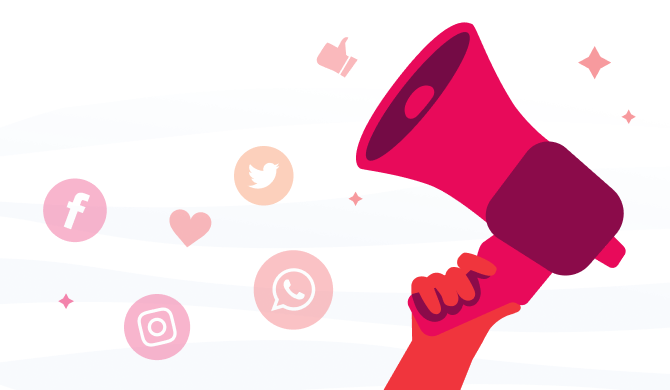
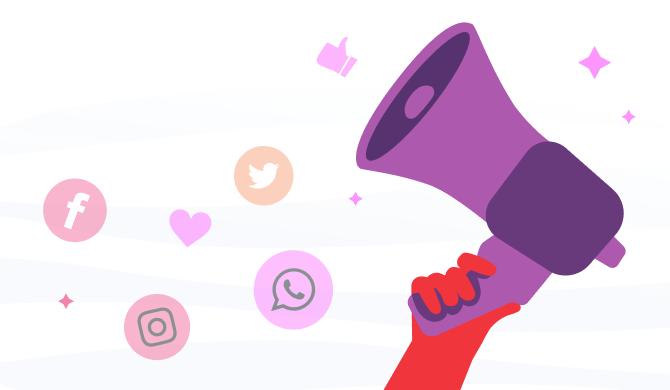
event page 80% register button tweaks needed, html text based colourings needed

diff --git a/lib/UI/Screens/HomePage/Widgets/aboutExcel.dart b/lib/UI/Screens/HomePage/Widgets/aboutExcel.dart
@@ -1,5 +1,6 @@
 import 'package:excelapp/UI/Screens/HomePage/Widgets/Drawer/DevCredits/devCredits.dart';
 import 'package:excelapp/UI/Screens/HomePage/Widgets/socialIcons.dart';
+import 'package:excelapp/UI/Themes/gradient.dart';
 import 'package:excelapp/UI/constants.dart';
 import 'package:flutter/material.dart';
 
@@ -33,6 +34,10 @@ class AboutExcelPopUp extends StatelessWidget {
   @override
   Widget build(BuildContext context) {
     return Container(
+      decoration: BoxDecoration(
+        borderRadius: BorderRadius.only(topLeft: Radius.circular(32), topRight: Radius.circular(32)),
+        gradient: drawerGradient()
+      ),
       child: Column(
         children: [
           SizedBox(height: 8),
@@ -53,7 +58,7 @@ class AboutExcelPopUp extends StatelessWidget {
                 text: TextSpan(
                   text: 'Inspire. Innovate. Engineer ',
                   style: TextStyle(
-                    color: Color(0xDD000000),
+                    color: Color(0xFFD3E1E4),
                     fontWeight: FontWeight.w800,
                     fontSize: 16,
                     fontFamily: "mulish",
@@ -61,9 +66,9 @@ class AboutExcelPopUp extends StatelessWidget {
                   children: const <TextSpan>[
                     TextSpan(
                       text:
-                          "\n\nExcel, the nation’s second and South India’s first ever fest of its kind, was started in 2001 by the students of Govt. Model Engineering College. Over the years, Excel has grown exponentially, consistently playing host to some of the most talented students, the most illustrious speakers and the most reputed companies. \n\n Now gearing towards the landmark 23rd edition, Excel continues to march forward. Join us this December to experience the magic of Excel!.",
+                          "\n\nExcel, the nation’s second and South India’s first ever fest of its kind, was started in 2001 by the students of Govt. Model Engineering College. Over the years, Excel has grown exponentially, consistently playing host to some of the most talented students, the most illustrious speakers and the most reputed companies. \n\nNow gearing towards the landmark 23rd edition, Excel continues to march forward. Join us this December to experience the magic of Excel!.",
                       style: TextStyle(
-                        color: Color.fromARGB(255, 61, 71, 71),
+                        color: Color(0xFFE4EDEF),
                         fontWeight: FontWeight.w400,
                         fontSize: 14,
                         fontFamily: pfontFamily,
@@ -88,7 +93,7 @@ class AboutExcelPopUp extends StatelessWidget {
                     child: Container(
                       decoration: BoxDecoration(
                         borderRadius: BorderRadius.circular(40),
-                        color: red100,
+                        color: primaryPink,
                       ),
                       height: 50,
                       alignment: Alignment.center,
@@ -98,7 +103,7 @@ class AboutExcelPopUp extends StatelessWidget {
                           Text(
                             'View Website',
                             style: TextStyle(
-                                color: Colors.white,
+                                color: backgroundBlue,
                                 fontFamily: "mulish",
                                 fontWeight: FontWeight.w700,
                                 fontSize: 14),
@@ -107,7 +112,7 @@ class AboutExcelPopUp extends StatelessWidget {
                             width: 10,
                           ),
                           Icon(Icons.arrow_forward,
-                              size: 19, color: Colors.white)
+                              size: 19, color: backgroundBlue)
                         ],
                       ),
                     ),
@@ -130,7 +135,7 @@ class AboutExcelPopUp extends StatelessWidget {
                     child: Container(
                       decoration: BoxDecoration(
                         borderRadius: BorderRadius.circular(40),
-                        color: Color.fromARGB(255, 228, 237, 239),
+                        color: Color(0xFf2C1B77),
                       ),
                       height: 50,
                       alignment: Alignment.center,
@@ -140,7 +145,7 @@ class AboutExcelPopUp extends StatelessWidget {
                           Text(
                             'Developer Credits',
                             style: TextStyle(
-                                color: Color.fromARGB(255, 61, 71, 71),
+                                color: Color(0xFFE4EDEF),
                                 fontFamily: "mulish",
                                 fontWeight: FontWeight.w700,
                                 fontSize: 14),
@@ -151,7 +156,7 @@ class AboutExcelPopUp extends StatelessWidget {
                           Icon(
                             Icons.arrow_forward,
                             size: 19,
-                            color: Color.fromARGB(255, 61, 71, 71),
+                            color: Color(0xFFE4EDEF),
                           )
                         ],
                       ),

diff --git a/lib/UI/Screens/EventPage/Widgets/eventDetails.dart b/lib/UI/Screens/EventPage/Widgets/eventDetails.dart
@@ -2,6 +2,7 @@ import 'dart:convert';
 
 import 'package:excelapp/Models/event_details.dart';
 import 'package:excelapp/UI/Themes/colors.dart';
+import 'package:excelapp/UI/Themes/gradient.dart';
 
 import 'package:flutter/material.dart';
 import 'package:flutter_html/flutter_html.dart';
@@ -54,7 +55,6 @@ late  TabController _controller;
     double height = lines < 25 ? 640 : lines * 30;
     height += lines < 30 ? (content.split("\n").length) : 0;
     return height;
-      return 580.0;
   }
 
   @override
@@ -68,7 +68,7 @@ late  TabController _controller;
       initialIndex: 0,
       length: 4,
       child: Container(
-        color: white200,
+        color: Color(0xFF000000),
         height: height,
         child: Column(
           mainAxisSize: MainAxisSize.min,
@@ -82,7 +82,7 @@ late  TabController _controller;
               indicatorColor: primaryColor,
               // labelColor: Color(0xFF3D4747),
               labelColor: primaryColor,
-              unselectedLabelColor: Color(0xFF3D4747),
+              unselectedLabelColor: Color(0xFFE4EDEF),
               labelStyle: TextStyle(
                   fontSize: 14,
                   fontFamily: pfontFamily,
@@ -104,7 +104,9 @@ late  TabController _controller;
             ),
             Expanded(
               child: Container(
-                color: white100,
+                decoration: BoxDecoration(
+                  gradient: primaryGradient()
+                ),
                 child: TabBarView(
                   controller: _controller,
                   physics: BouncingScrollPhysics(),
@@ -163,25 +165,25 @@ late  TabController _controller;
                   fontFamily: pfontFamily,
                   fontSize: 18,
                   height: 1.3,
-                  color: Color(0xff3D4747));
+                  color: Color(0xFFE4EDEF));
             case "p":
               return TextStyle(
                   fontFamily: pfontFamily,
                   fontSize: 14.7,
                   height: 1.5,
-                  color: Color(0xff3D4747));
+                  color: Color(0xFFE4EDEF));
             case "li":
               return TextStyle(
                   fontFamily: pfontFamily,
                   fontSize: 14.7,
                   height: 1.7,
-                  color: Color(0xff3D4747));
+                  color: Color(0xFFE4EDEF));
           }
         return TextStyle(
             fontFamily: pfontFamily,
             fontSize: 14.7,
             height: 1.5,
-            color: Color(0xff3D4747));
+            color: Color(0xFFE4EDEF));
       }
 
   Widget contactTab() {
@@ -224,7 +226,7 @@ late  TabController _controller;
                     fontFamily: pfontFamily,
                     fontSize: 16,
                     height: 1.3,
-                    color: black400,
+                    color: Color(0xFFE4EDEF),
                     fontWeight: FontWeight.w700,
                   )),
               // SizedBox(
@@ -263,7 +265,7 @@ late  TabController _controller;
                       await launchUrl(launchUri);
                                         },
                     icon: Image.asset("assets/icons/message.png", height: 24),
-                    color: Colors.blue,
+                    color: Colors.white,
                     iconSize: 28),
               ],
             ),

diff --git a/lib/UI/Screens/EventPage/Widgets/eventPageBody.dart b/lib/UI/Screens/EventPage/Widgets/eventPageBody.dart
@@ -7,6 +7,7 @@ import 'package:excelapp/UI/Themes/colors.dart';
 import 'package:flutter/material.dart';
 import 'package:excelapp/UI/constants.dart';
 import 'package:excelapp/UI/Components/LikeButton/likeButton.dart';
+import 'package:hive/hive.dart';
 
 class EventPageBody extends StatelessWidget {
   final EventDetails eventDetails;
@@ -52,6 +53,9 @@ class EventPageBody extends StatelessWidget {
           Align(
             alignment: Alignment.topCenter,
             child: Container(
+              decoration: BoxDecoration(
+                color: backgroundBlue
+              ),
               height: deviceHeight,
               child: Column(
                 children: <Widget>[
@@ -95,7 +99,7 @@ class EventPageBody extends StatelessWidget {
                                           fontFamily: pfontFamily,
                                           fontSize: 32.0,
                                           fontWeight: FontWeight.w900,
-                                          color: textColor,
+                                          color: Color(0xFFD3E1E4),
                                         ),
                                       ),
                                     ),
@@ -108,7 +112,7 @@ class EventPageBody extends StatelessWidget {
                                         decoration: BoxDecoration(
                                           borderRadius:
                                               BorderRadius.circular(21),
-                                          color: red100,
+                                          color: Color(0xFFAD59AE),
                                         ),
                                         child: Padding(
                                           padding: EdgeInsets.all(12.25),
@@ -170,7 +174,7 @@ class EventPageBody extends StatelessWidget {
             child: Container(
               padding: EdgeInsetsDirectional.only(bottom: 20),
               decoration: BoxDecoration(
-                color: Colors.white,
+                color: backgroundBlue,
                 borderRadius: BorderRadius.only(
                     topLeft: Radius.circular(40),
                     topRight: Radius.circular(40)),

diff --git a/lib/UI/Screens/EventPage/Widgets/eventDescription.dart b/lib/UI/Screens/EventPage/Widgets/eventDescription.dart
@@ -1,4 +1,4 @@
-import 'package:excelapp/UI/Themes/colors.dart';
+import 'package:excelapp/UI/Themes/gradient.dart';
 import 'package:flutter/material.dart';
 import 'package:excelapp/Models/event_details.dart';
 import 'package:excelapp/UI/constants.dart';
@@ -26,7 +26,9 @@ Widget getEventDetails(
   return Hero(
     tag: 'EventDescription',
     child: Container(
-      color: white200,
+      decoration: BoxDecoration(
+        gradient: primaryGradient()
+      ),
       child: Column(
         children: <Widget>[
           Row(
@@ -117,7 +119,7 @@ Widget detailBox(
     width: width,
 
     decoration: BoxDecoration(
-        color: white100, borderRadius: BorderRadius.circular(24)),
+        color: Color(0xFF000000), borderRadius: BorderRadius.circular(24)),
     child: Row(
       mainAxisAlignment: MainAxisAlignment.start,
       children: <Widget>[
@@ -126,7 +128,7 @@ Widget detailBox(
           child: FaIcon(
             icon,
             size: 20.0,
-            color: red100,
+            color: Color(0xFFAD59AE),
           ),
         ),
         Expanded(
@@ -141,7 +143,7 @@ Widget detailBox(
                 Text(
                   title,
                   style: TextStyle(
-                    color: Color(0xFF778585),
+                    color: Color(0xFFE7F1F3),
                     fontSize: 11,
                     fontFamily: pfontFamily,
                     fontWeight: FontWeight.w500,
@@ -151,7 +153,7 @@ Widget detailBox(
                 Text(
                   data,
                   style: TextStyle(
-                    color: Color(0xFF3D4747),
+                    color: Color(0xFFE4EDEF),
                     fontSize: 14,
                     fontFamily: pfontFamily,
                     fontWeight: FontWeight.bold,

diff --git a/lib/UI/Screens/HomePage/Widgets/LatestNews/LatestNews_card.dart b/lib/UI/Screens/HomePage/Widgets/LatestNews/LatestNews_card.dart
@@ -41,12 +41,15 @@ class _LastestNewsCardState extends State<LastestNewsCard> {
     return Container(
       margin: EdgeInsets.symmetric(horizontal: 20, vertical: 10),
       decoration: BoxDecoration(
-        color: white100,
+        color: backgroundBlue,
         borderRadius: BorderRadius.circular(32),
-        border: Border.all(
-          color: white300,
-          width: 1.6,
-        ),
+        boxShadow: [
+          BoxShadow(
+            color: Color.fromRGBO(0, 0, 0, 0.3),
+            blurRadius: 20,
+            offset: Offset(0, 4),
+          ),
+        ],
       ),
       child: Container(
         padding: EdgeInsets.all(24),
@@ -108,7 +111,7 @@ class _LastestNewsCardState extends State<LastestNewsCard> {
                     trimExpandedText: "\nshow less",
                     style: TextStyle(
                       fontSize: 14,
-                      color: black300,
+                      color: Color(0xFFE4EDEF),
                       height: 1.5,
                     ),
                     colorClickableText: black400,
@@ -165,7 +168,7 @@ class _LastestNewsCardState extends State<LastestNewsCard> {
                             new DateFormat.d()
                                 .format(DateTime.parse(widget.news.date)),
                         style: TextStyle(
-                          color: black100,
+                          color: Color(0xFFE4EDEF),
                           fontSize: 12,
                           fontFamily: pfontFamily,
                         ),

diff --git a/lib/UI/Screens/HomePage/homePage.dart b/lib/UI/Screens/HomePage/homePage.dart
@@ -18,12 +18,11 @@ class _HomePageState extends State<HomePage> {
   Widget build(BuildContext context) {
     return Scaffold(
       resizeToAvoidBottomInset: true,
-      backgroundColor: white100,
+      backgroundColor: backgroundBlue,
       body: Container(
         decoration: BoxDecoration(
           gradient: primaryGradient()
         ),
-
         child: Column(
           children: [
             SafeArea(

diff --git a/lib/UI/Screens/HomePage/Widgets/LatestNews/latestNews.dart b/lib/UI/Screens/HomePage/Widgets/LatestNews/latestNews.dart
@@ -200,8 +200,8 @@ class _LatestNewsSectionState extends State<LatestNewsSection> {
         height: 140,
         margin: EdgeInsets.fromLTRB(24, 0, 24, 20),
       ),
-      baseColor: white300,
-      highlightColor: white400,
+      baseColor: backgroundBlue,
+      highlightColor: primaryColor,
     );
   }
 }
